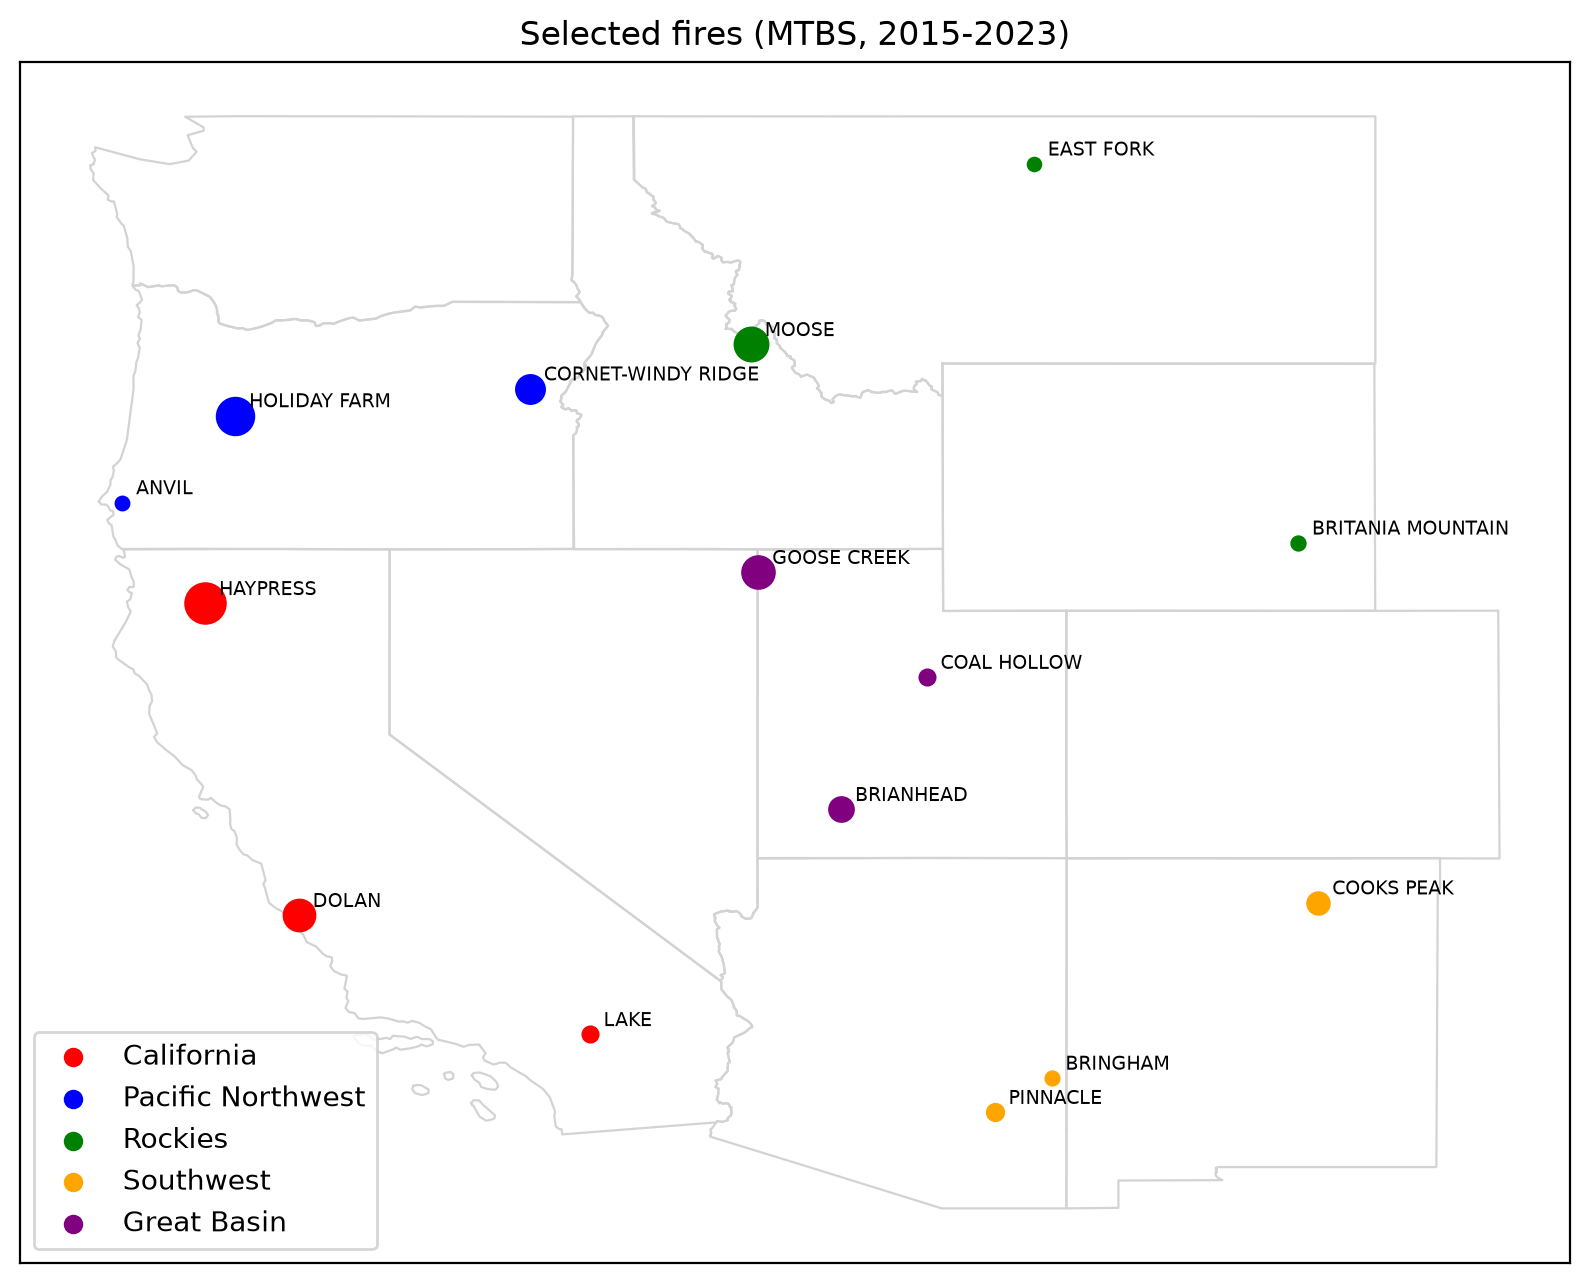
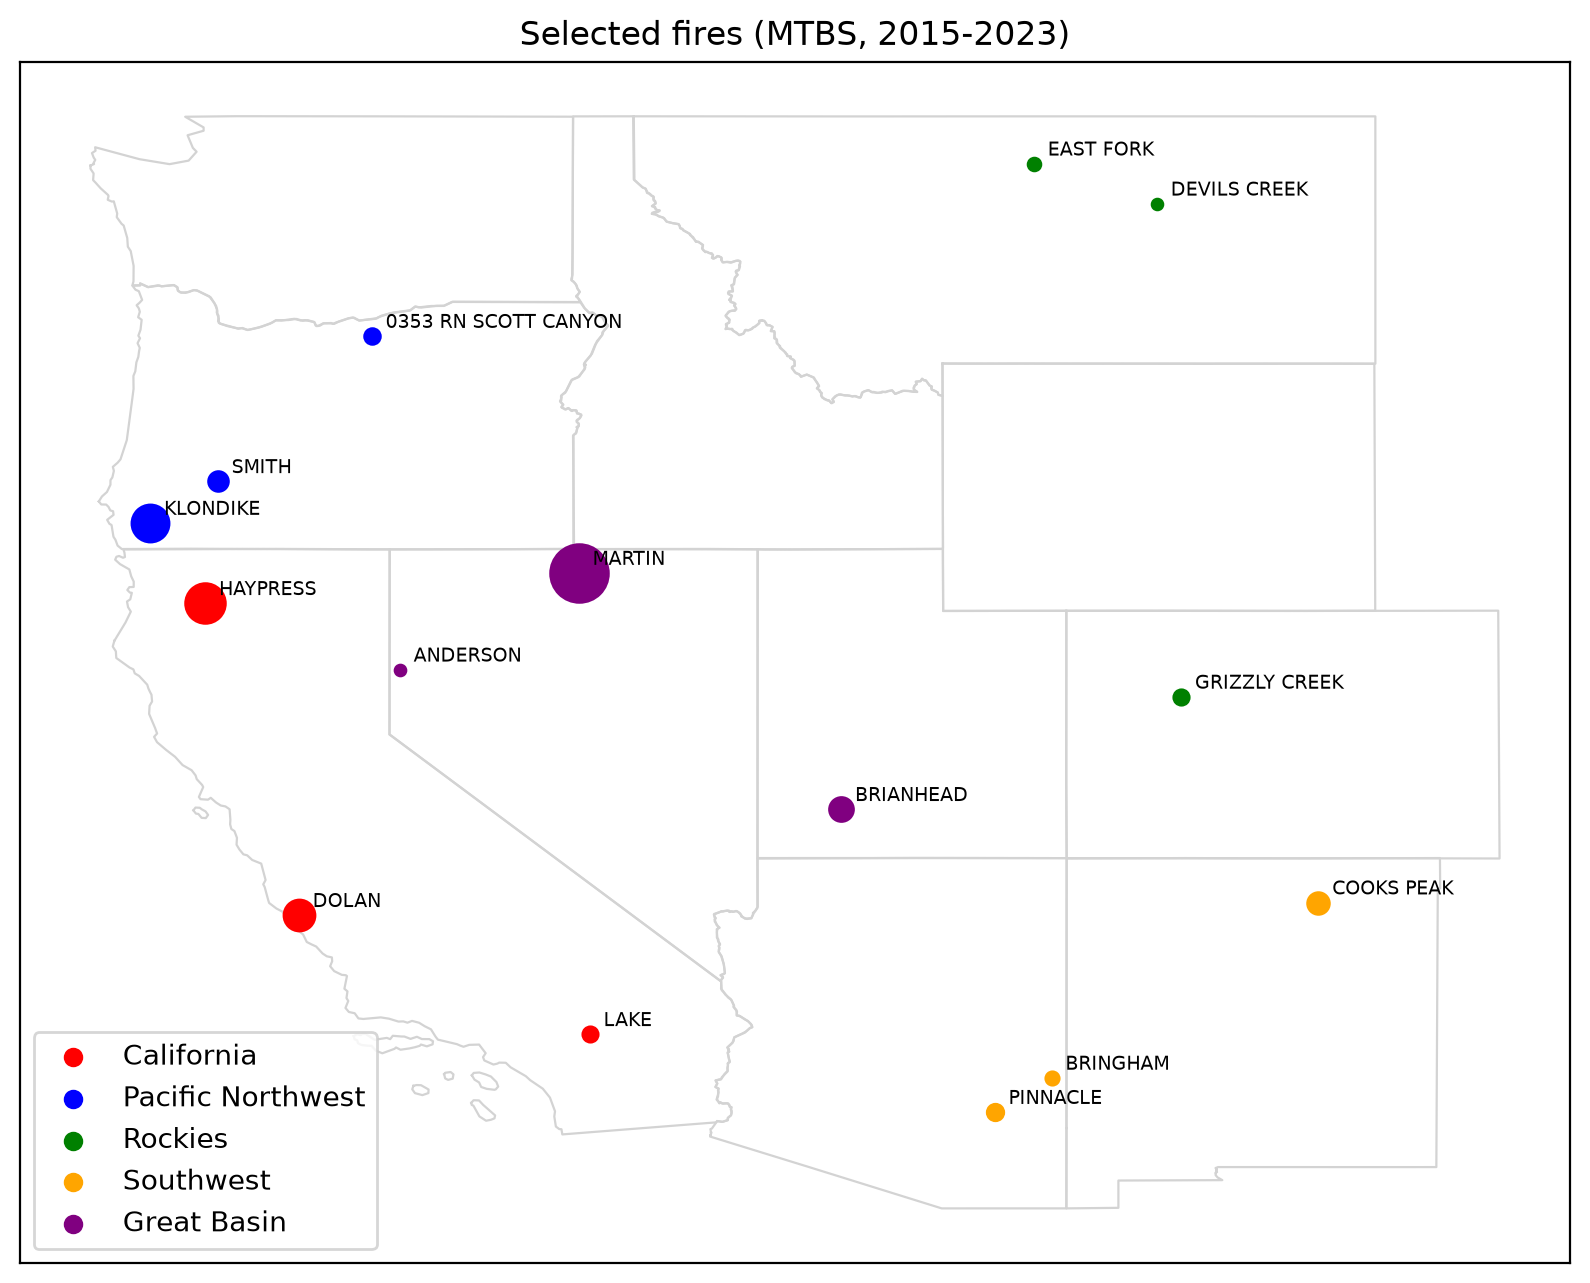
Update fire list with grassland fires

diff --git a/figures/fires_map.html b/figures/fires_map.html
@@ -17,7 +17,7 @@
             <meta name="viewport" content="width=device-width,
                 initial-scale=1.0, maximum-scale=1.0, user-scalable=no" />
             <style>
-                #map_3c1e21487edc4943ceccab2f5bc773b7 {
+                #map_35acb8b5dedd72bf4354b4baa5130846 {
                     position: relative;
                     width: 100.0%;
                     height: 100.0%;
@@ -54,14 +54,14 @@
 <body>
     
     
-            <div class="folium-map" id="map_3c1e21487edc4943ceccab2f5bc773b7" ></div>
+            <div class="folium-map" id="map_35acb8b5dedd72bf4354b4baa5130846" ></div>
         
 </body>
 <script>
     
     
-            var map_3c1e21487edc4943ceccab2f5bc773b7 = L.map(
-                "map_3c1e21487edc4943ceccab2f5bc773b7",
+            var map_35acb8b5dedd72bf4354b4baa5130846 = L.map(
+                "map_35acb8b5dedd72bf4354b4baa5130846",
                 {
                     center: [40.0, -113.0],
                     crs: L.CRS.EPSG3857,
@@ -78,7 +78,7 @@
 
         
     
-            var tile_layer_a05f9d564365cec118ec9fdc5971b8fb = L.tileLayer(
+            var tile_layer_f728a74ab97402a041229d1ea4149602 = L.tileLayer(
                 "https://server.arcgisonline.com/ArcGIS/rest/services/Canvas/World_Light_Gray_Base/MapServer/tile/{z}/{y}/{x}",
                 {
   "minZoom": 0,
@@ -95,16 +95,16 @@
             );
         
     
-            tile_layer_a05f9d564365cec118ec9fdc5971b8fb.addTo(map_3c1e21487edc4943ceccab2f5bc773b7);
+            tile_layer_f728a74ab97402a041229d1ea4149602.addTo(map_35acb8b5dedd72bf4354b4baa5130846);
         
     
-            var circle_marker_d976b607159229076743a70da6e4e3de = L.circleMarker(
+            var circle_marker_0a2267b15778dbe5ec1c80ef065afa59 = L.circleMarker(
                 [41.12, -122.983],
                 {"bubblingMouseEvents": true, "color": "red", "dashArray": null, "dashOffset": null, "fill": true, "fillColor": "red", "fillOpacity": 0.9, "fillRule": "evenodd", "lineCap": "round", "lineJoin": "round", "opacity": 1.0, "radius": 7, "stroke": true, "weight": 3}
-            ).addTo(map_3c1e21487edc4943ceccab2f5bc773b7);
+            ).addTo(map_35acb8b5dedd72bf4354b4baa5130846);
         
     
-            circle_marker_d976b607159229076743a70da6e4e3de.bindTooltip(
+            circle_marker_0a2267b15778dbe5ec1c80ef065afa59.bindTooltip(
                 `<div>
                      HAYPRESS (2021) · forest · moderate · 204,549 ac
                  </div>`,
@@ -114,13 +114,13 @@
             );
         
     
-            var circle_marker_71046934000ee8d5d2f5c9b7ac6bf9a7 = L.circleMarker(
+            var circle_marker_31bf51e54b11ba73b216e594979213bd = L.circleMarker(
                 [36.073, -121.468],
                 {"bubblingMouseEvents": true, "color": "red", "dashArray": null, "dashOffset": null, "fill": true, "fillColor": "red", "fillOpacity": 0.9, "fillRule": "evenodd", "lineCap": "round", "lineJoin": "round", "opacity": 1.0, "radius": 7, "stroke": true, "weight": 3}
-            ).addTo(map_3c1e21487edc4943ceccab2f5bc773b7);
+            ).addTo(map_35acb8b5dedd72bf4354b4baa5130846);
         
     
-            circle_marker_71046934000ee8d5d2f5c9b7ac6bf9a7.bindTooltip(
+            circle_marker_31bf51e54b11ba73b216e594979213bd.bindTooltip(
                 `<div>
                      DOLAN (2020) · shrubland · high · 124,382 ac
                  </div>`,
@@ -130,13 +130,13 @@
             );
         
     
-            var circle_marker_db19038a8d0393214f7affee0c9b35fb = L.circleMarker(
+            var circle_marker_6762f2ecf6c7b6ce5863a8d14d12e048 = L.circleMarker(
                 [34.147, -116.762],
                 {"bubblingMouseEvents": true, "color": "red", "dashArray": null, "dashOffset": null, "fill": true, "fillColor": "red", "fillOpacity": 0.9, "fillRule": "evenodd", "lineCap": "round", "lineJoin": "round", "opacity": 1.0, "radius": 7, "stroke": true, "weight": 3}
-            ).addTo(map_3c1e21487edc4943ceccab2f5bc773b7);
+            ).addTo(map_35acb8b5dedd72bf4354b4baa5130846);
         
     
-            circle_marker_db19038a8d0393214f7affee0c9b35fb.bindTooltip(
+            circle_marker_6762f2ecf6c7b6ce5863a8d14d12e048.bindTooltip(
                 `<div>
                      LAKE (2015) · forest · moderate · 30,421 ac
                  </div>`,
@@ -146,15 +146,15 @@
             );
         
     
-            var circle_marker_34d47efb88203c8c21cdaa8ef55b24b3 = L.circleMarker(
-                [44.159, -122.496],
+            var circle_marker_15591065fe8e323377f8d507538ddd1f = L.circleMarker(
+                [43.093, -122.78],
                 {"bubblingMouseEvents": true, "color": "blue", "dashArray": null, "dashOffset": null, "fill": true, "fillColor": "blue", "fillOpacity": 0.9, "fillRule": "evenodd", "lineCap": "round", "lineJoin": "round", "opacity": 1.0, "radius": 7, "stroke": true, "weight": 3}
-            ).addTo(map_3c1e21487edc4943ceccab2f5bc773b7);
+            ).addTo(map_35acb8b5dedd72bf4354b4baa5130846);
         
     
-            circle_marker_34d47efb88203c8c21cdaa8ef55b24b3.bindTooltip(
+            circle_marker_15591065fe8e323377f8d507538ddd1f.bindTooltip(
                 `<div>
-                     HOLIDAY FARM (2020) · forest · high · 174,390 ac
+                     SMITH (2021) · forest · moderate · 50,739 ac
                  </div>`,
                 {
   "sticky": true,
@@ -162,15 +162,15 @@
             );
         
     
-            var circle_marker_aed99ad7dc2ddbda7f7f53593aa66656 = L.circleMarker(
-                [44.592, -117.728],
+            var circle_marker_cfec03c70a3eed9c5b22e07cd634db70 = L.circleMarker(
+                [45.442, -120.289],
                 {"bubblingMouseEvents": true, "color": "blue", "dashArray": null, "dashOffset": null, "fill": true, "fillColor": "blue", "fillOpacity": 0.9, "fillRule": "evenodd", "lineCap": "round", "lineJoin": "round", "opacity": 1.0, "radius": 7, "stroke": true, "weight": 3}
-            ).addTo(map_3c1e21487edc4943ceccab2f5bc773b7);
+            ).addTo(map_35acb8b5dedd72bf4354b4baa5130846);
         
     
-            circle_marker_aed99ad7dc2ddbda7f7f53593aa66656.bindTooltip(
+            circle_marker_cfec03c70a3eed9c5b22e07cd634db70.bindTooltip(
                 `<div>
-                     CORNET-WINDY RIDGE (2015) · shrubland · moderate · 102,553 ac
+                     0353 RN SCOTT CANYON (2016) · grassland · low · 32,051 ac
                  </div>`,
                 {
   "sticky": true,
@@ -178,15 +178,15 @@
             );
         
     
-            var circle_marker_0d55c4009e0b32ec7966d06d5c7ca518 = L.circleMarker(
-                [42.752, -124.326],
+            var circle_marker_4d1f25000e7a9292eda92245e80622a8 = L.circleMarker(
+                [42.418, -123.873],
                 {"bubblingMouseEvents": true, "color": "blue", "dashArray": null, "dashOffset": null, "fill": true, "fillColor": "blue", "fillOpacity": 0.9, "fillRule": "evenodd", "lineCap": "round", "lineJoin": "round", "opacity": 1.0, "radius": 7, "stroke": true, "weight": 3}
-            ).addTo(map_3c1e21487edc4943ceccab2f5bc773b7);
+            ).addTo(map_35acb8b5dedd72bf4354b4baa5130846);
         
     
-            circle_marker_0d55c4009e0b32ec7966d06d5c7ca518.bindTooltip(
+            circle_marker_4d1f25000e7a9292eda92245e80622a8.bindTooltip(
                 `<div>
-                     ANVIL (2023) · forest · low · 22,261 ac
+                     KLONDIKE (2018) · shrubland · high · 178,311 ac
                  </div>`,
                 {
   "sticky": true,
@@ -194,15 +194,15 @@
             );
         
     
-            var circle_marker_f4d7fa1d0420540055dc645b0fd29627 = L.circleMarker(
-                [42.099, -105.301],
+            var circle_marker_ce3b500e704d0e45930a8d3cb9ddca1e = L.circleMarker(
+                [39.605, -107.194],
                 {"bubblingMouseEvents": true, "color": "green", "dashArray": null, "dashOffset": null, "fill": true, "fillColor": "green", "fillOpacity": 0.9, "fillRule": "evenodd", "lineCap": "round", "lineJoin": "round", "opacity": 1.0, "radius": 7, "stroke": true, "weight": 3}
-            ).addTo(map_3c1e21487edc4943ceccab2f5bc773b7);
+            ).addTo(map_35acb8b5dedd72bf4354b4baa5130846);
         
     
-            circle_marker_f4d7fa1d0420540055dc645b0fd29627.bindTooltip(
+            circle_marker_ce3b500e704d0e45930a8d3cb9ddca1e.bindTooltip(
                 `<div>
-                     BRITANIA MOUNTAIN (2018) · forest · moderate · 23,701 ac
+                     GRIZZLY CREEK (2020) · forest · moderate · 30,705 ac
                  </div>`,
                 {
   "sticky": true,
@@ -210,13 +210,13 @@
             );
         
     
-            var circle_marker_11680e899d0444e665be534394e78fa3 = L.circleMarker(
+            var circle_marker_3eba3f57f845e7bdc1256a699560be45 = L.circleMarker(
                 [48.231, -109.576],
                 {"bubblingMouseEvents": true, "color": "green", "dashArray": null, "dashOffset": null, "fill": true, "fillColor": "green", "fillOpacity": 0.9, "fillRule": "evenodd", "lineCap": "round", "lineJoin": "round", "opacity": 1.0, "radius": 7, "stroke": true, "weight": 3}
-            ).addTo(map_3c1e21487edc4943ceccab2f5bc773b7);
+            ).addTo(map_35acb8b5dedd72bf4354b4baa5130846);
         
     
-            circle_marker_11680e899d0444e665be534394e78fa3.bindTooltip(
+            circle_marker_3eba3f57f845e7bdc1256a699560be45.bindTooltip(
                 `<div>
                      EAST FORK (2017) · shrubland · high · 21,165 ac
                  </div>`,
@@ -226,15 +226,15 @@
             );
         
     
-            var circle_marker_b9b7763316f9ebc83272914b666b9a33 = L.circleMarker(
-                [45.31, -114.154],
+            var circle_marker_9d34c1e9bb915a649419939dcc9347ac = L.circleMarker(
+                [47.583, -107.586],
                 {"bubblingMouseEvents": true, "color": "green", "dashArray": null, "dashOffset": null, "fill": true, "fillColor": "green", "fillOpacity": 0.9, "fillRule": "evenodd", "lineCap": "round", "lineJoin": "round", "opacity": 1.0, "radius": 7, "stroke": true, "weight": 3}
-            ).addTo(map_3c1e21487edc4943ceccab2f5bc773b7);
+            ).addTo(map_35acb8b5dedd72bf4354b4baa5130846);
         
     
-            circle_marker_b9b7763316f9ebc83272914b666b9a33.bindTooltip(
+            circle_marker_9d34c1e9bb915a649419939dcc9347ac.bindTooltip(
                 `<div>
-                     MOOSE (2022) · forest · low · 142,221 ac
+                     DEVILS CREEK (2021) · grassland · moderate · 15,077 ac
                  </div>`,
                 {
   "sticky": true,
@@ -242,13 +242,13 @@
             );
         
     
-            var circle_marker_b57395a2ffd7194aff9e6e4c07090c34 = L.circleMarker(
+            var circle_marker_1dcb0900c0753051a51acdc0a378b670 = L.circleMarker(
                 [32.887, -110.21],
                 {"bubblingMouseEvents": true, "color": "orange", "dashArray": null, "dashOffset": null, "fill": true, "fillColor": "orange", "fillOpacity": 0.9, "fillRule": "evenodd", "lineCap": "round", "lineJoin": "round", "opacity": 1.0, "radius": 7, "stroke": true, "weight": 3}
-            ).addTo(map_3c1e21487edc4943ceccab2f5bc773b7);
+            ).addTo(map_35acb8b5dedd72bf4354b4baa5130846);
         
     
-            circle_marker_b57395a2ffd7194aff9e6e4c07090c34.bindTooltip(
+            circle_marker_1dcb0900c0753051a51acdc0a378b670.bindTooltip(
                 `<div>
                      PINNACLE (2021) · shrubland · low · 35,281 ac
                  </div>`,
@@ -258,13 +258,13 @@
             );
         
     
-            var circle_marker_a1f0ac3f86bdb25bbddf9e9636b27ced = L.circleMarker(
+            var circle_marker_c7eb3d3c36e615bc6ae9de4264fe2cba = L.circleMarker(
                 [36.277, -104.973],
                 {"bubblingMouseEvents": true, "color": "orange", "dashArray": null, "dashOffset": null, "fill": true, "fillColor": "orange", "fillOpacity": 0.9, "fillRule": "evenodd", "lineCap": "round", "lineJoin": "round", "opacity": 1.0, "radius": 7, "stroke": true, "weight": 3}
-            ).addTo(map_3c1e21487edc4943ceccab2f5bc773b7);
+            ).addTo(map_35acb8b5dedd72bf4354b4baa5130846);
         
     
-            circle_marker_a1f0ac3f86bdb25bbddf9e9636b27ced.bindTooltip(
+            circle_marker_c7eb3d3c36e615bc6ae9de4264fe2cba.bindTooltip(
                 `<div>
                      COOKS PEAK (2022) · forest · moderate · 61,195 ac
                  </div>`,
@@ -274,13 +274,13 @@
             );
         
     
-            var circle_marker_a33f3969fc1a9e1c47805f6dec7907d1 = L.circleMarker(
+            var circle_marker_b4a3d202e4153067f62b6c5c122424d5 = L.circleMarker(
                 [33.441, -109.29],
                 {"bubblingMouseEvents": true, "color": "orange", "dashArray": null, "dashOffset": null, "fill": true, "fillColor": "orange", "fillOpacity": 0.9, "fillRule": "evenodd", "lineCap": "round", "lineJoin": "round", "opacity": 1.0, "radius": 7, "stroke": true, "weight": 3}
-            ).addTo(map_3c1e21487edc4943ceccab2f5bc773b7);
+            ).addTo(map_35acb8b5dedd72bf4354b4baa5130846);
         
     
-            circle_marker_a33f3969fc1a9e1c47805f6dec7907d1.bindTooltip(
+            circle_marker_b4a3d202e4153067f62b6c5c122424d5.bindTooltip(
                 `<div>
                      BRINGHAM (2020) · forest · moderate · 23,134 ac
                  </div>`,
@@ -290,15 +290,15 @@
             );
         
     
-            var circle_marker_b3db6b012c8353d4342838fa5ddd27b9 = L.circleMarker(
-                [39.926, -111.31],
+            var circle_marker_6ec9e62f7e17a90b1544f39bce0e731f = L.circleMarker(
+                [41.609, -116.94],
                 {"bubblingMouseEvents": true, "color": "purple", "dashArray": null, "dashOffset": null, "fill": true, "fillColor": "purple", "fillOpacity": 0.9, "fillRule": "evenodd", "lineCap": "round", "lineJoin": "round", "opacity": 1.0, "radius": 7, "stroke": true, "weight": 3}
-            ).addTo(map_3c1e21487edc4943ceccab2f5bc773b7);
+            ).addTo(map_35acb8b5dedd72bf4354b4baa5130846);
         
     
-            circle_marker_b3db6b012c8353d4342838fa5ddd27b9.bindTooltip(
+            circle_marker_6ec9e62f7e17a90b1544f39bce0e731f.bindTooltip(
                 `<div>
-                     COAL HOLLOW (2018) · forest · moderate · 30,239 ac
+                     MARTIN (2018) · shrubland · moderate · 432,180 ac
                  </div>`,
                 {
   "sticky": true,
@@ -306,31 +306,31 @@
             );
         
     
-            var circle_marker_6510ef399765006ac73154214a9c0cb0 = L.circleMarker(
-                [41.623, -114.034],
-                {"bubblingMouseEvents": true, "color": "purple", "dashArray": null, "dashOffset": null, "fill": true, "fillColor": "purple", "fillOpacity": 0.9, "fillRule": "evenodd", "lineCap": "round", "lineJoin": "round", "opacity": 1.0, "radius": 7, "stroke": true, "weight": 3}
-            ).addTo(map_3c1e21487edc4943ceccab2f5bc773b7);
-        
-    
-            circle_marker_6510ef399765006ac73154214a9c0cb0.bindTooltip(
-                `<div>
-                     GOOSE CREEK (2018) · shrubland · low · 131,432 ac
-                 </div>`,
-                {
-  "sticky": true,
-}
-            );
-        
-    
-            var circle_marker_442ab5d93e3ce3d4237fc2c3e21d3282 = L.circleMarker(
+            var circle_marker_fd3d81071bced7a51af98fb088174f71 = L.circleMarker(
                 [37.788, -112.693],
                 {"bubblingMouseEvents": true, "color": "purple", "dashArray": null, "dashOffset": null, "fill": true, "fillColor": "purple", "fillOpacity": 0.9, "fillRule": "evenodd", "lineCap": "round", "lineJoin": "round", "opacity": 1.0, "radius": 7, "stroke": true, "weight": 3}
-            ).addTo(map_3c1e21487edc4943ceccab2f5bc773b7);
+            ).addTo(map_35acb8b5dedd72bf4354b4baa5130846);
         
     
-            circle_marker_442ab5d93e3ce3d4237fc2c3e21d3282.bindTooltip(
+            circle_marker_fd3d81071bced7a51af98fb088174f71.bindTooltip(
                 `<div>
                      BRIANHEAD (2017) · forest · high · 74,276 ac
+                 </div>`,
+                {
+  "sticky": true,
+}
+            );
+        
+    
+            var circle_marker_3cd29caedd9873ef737d83ccb1a45cb2 = L.circleMarker(
+                [40.044, -119.836],
+                {"bubblingMouseEvents": true, "color": "purple", "dashArray": null, "dashOffset": null, "fill": true, "fillColor": "purple", "fillOpacity": 0.9, "fillRule": "evenodd", "lineCap": "round", "lineJoin": "round", "opacity": 1.0, "radius": 7, "stroke": true, "weight": 3}
+            ).addTo(map_35acb8b5dedd72bf4354b4baa5130846);
+        
+    
+            circle_marker_3cd29caedd9873ef737d83ccb1a45cb2.bindTooltip(
+                `<div>
+                     ANDERSON (2016) · grassland · moderate · 15,346 ac
                  </div>`,
                 {
   "sticky": true,
